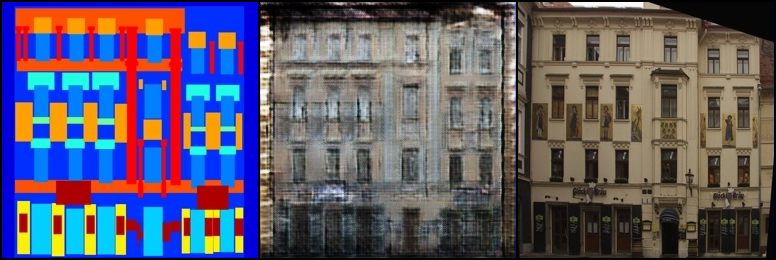
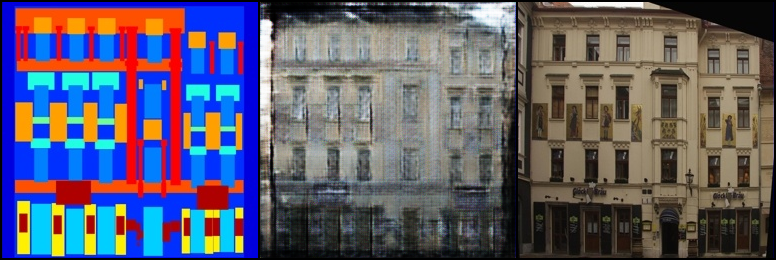
Small changes for improving models

Changed region(s): [[0.3093, 0.0, 0.6804, 1.0]]

diff --git a/models/generator.py b/models/generator.py
@@ -1,73 +1,69 @@
 import torch
 import torch.nn as nn
 
+# ---------- Down Block ----------
 class DownBlock(nn.Module):
-    def __init__(self, in_c, out_c, normalize=True):
+    def __init__(self, in_channels, out_channels, normalize=True):
         super().__init__()
-        layers = [nn.Conv2d(in_c, out_c, 4, 2, 1)]
+
+        layers = [
+            nn.Conv2d(in_channels, out_channels, 4, 2, 1, bias=False)
+        ]
+
         if normalize:
-            layers.append(nn.BatchNorm2d(out_c))
-        layers.append(nn.LeakyReLU(0.2))
-        self.block = nn.Sequential(*layers)
+            layers.append(nn.BatchNorm2d(out_channels))
+
+        layers.append(nn.LeakyReLU(0.2, inplace=True))
+
+        self.model = nn.Sequential(*layers)
 
     def forward(self, x):
-        return self.block(x)
+        return self.model(x)
 
 
+# ---------- Up Block ----------
 class UpBlock(nn.Module):
-    def __init__(self, in_c, out_c, dropout=False):
+    def __init__(self, in_channels, out_channels, dropout=False):
         super().__init__()
+
         layers = [
-            nn.ConvTranspose2d(in_c, out_c, 4, 2, 1),
-            nn.BatchNorm2d(out_c),
-            nn.ReLU()
+            nn.ConvTranspose2d(in_channels, out_channels, 4, 2, 1, bias=False),
+            nn.BatchNorm2d(out_channels),
+            nn.ReLU(inplace=True)
         ]
+
         if dropout:
             layers.append(nn.Dropout(0.5))
-        self.block = nn.Sequential(*layers)
+
+        self.model = nn.Sequential(*layers)
 
     def forward(self, x):
-        return self.block(x)
+        return self.model(x)
 
 
-class ConvBlock(nn.Module):
-    def __init__(self, in_c, out_c, down=True, use_act=True):
-        super().__init__()
-
-        if down:
-            self.conv = nn.Conv2d(in_c, out_c, 4, 2, 1, bias=False)
-        else:
-            self.conv = nn.ConvTranspose2d(in_c, out_c, 4, 2, 1, bias=False)
-
-        self.bn = nn.BatchNorm2d(out_c)
-        self.act = nn.ReLU(inplace=True) if use_act else nn.Identity()
-
-    def forward(self, x):
-        return self.act(self.bn(self.conv(x)))
-
-
+# ---------- Generator (U-Net 8 layers) ----------
 class Generator(nn.Module):
     def __init__(self):
         super().__init__()
 
-        # Encoder
-        self.d1 = DownBlock(3, 64, normalize=False)
-        self.d2 = DownBlock(64, 128)
-        self.d3 = DownBlock(128, 256)
-        self.d4 = DownBlock(256, 512)
-        self.d5 = DownBlock(512, 512)
-        self.d6 = DownBlock(512, 512)
-        self.d7 = DownBlock(512, 512)
-        self.d8 = DownBlock(512, 512, normalize=False)
+        # Downsampling
+        self.down1 = DownBlock(3, 64, normalize=False)    # 256 → 128
+        self.down2 = DownBlock(64, 128)                   # 128 → 64
+        self.down3 = DownBlock(128, 256)                  # 64 → 32
+        self.down4 = DownBlock(256, 512)                  # 32 → 16
+        self.down5 = DownBlock(512, 512)                  # 16 → 8
+        self.down6 = DownBlock(512, 512)                  # 8 → 4
+        self.down7 = DownBlock(512, 512)                  # 4 → 2
+        self.down8 = DownBlock(512, 512, normalize=False) # 2 → 1
 
-        # Decoder (🔥 دقت کن به in_channels)
-        self.u1 = UpBlock(512, 512, dropout=True)
-        self.u2 = UpBlock(1024, 512, dropout=True)
-        self.u3 = UpBlock(1024, 512, dropout=True)
-        self.u4 = UpBlock(1024, 512)
-        self.u5 = UpBlock(1024, 256)
-        self.u6 = UpBlock(512, 128)
-        self.u7 = UpBlock(256, 64)
+        # Upsampling
+        self.up1 = UpBlock(512, 512, dropout=True)
+        self.up2 = UpBlock(1024, 512, dropout=True)
+        self.up3 = UpBlock(1024, 512, dropout=True)
+        self.up4 = UpBlock(1024, 512)
+        self.up5 = UpBlock(1024, 256)
+        self.up6 = UpBlock(512, 128)
+        self.up7 = UpBlock(256, 64)
 
         self.final = nn.Sequential(
             nn.ConvTranspose2d(128, 3, 4, 2, 1),
@@ -75,26 +71,26 @@ class Generator(nn.Module):
         )
 
     def forward(self, x):
-        d1 = self.d1(x)
-        d2 = self.d2(d1)
-        d3 = self.d3(d2)
-        d4 = self.d4(d3)
-        d5 = self.d5(d4)
-        d6 = self.d6(d5)
-        d7 = self.d7(d6)
-        d8 = self.d8(d7)
 
-        u1 = self.u1(d8)
-        u2 = self.u2(torch.cat([u1, d7], dim=1))
-        u3 = self.u3(torch.cat([u2, d6], dim=1))
-        u4 = self.u4(torch.cat([u3, d5], dim=1))
-        u5 = self.u5(torch.cat([u4, d4], dim=1))
-        u6 = self.u6(torch.cat([u5, d3], dim=1))
-        u7 = self.u7(torch.cat([u6, d2], dim=1))
+        # Down path
+        d1 = self.down1(x)
+        d2 = self.down2(d1)
+        d3 = self.down3(d2)
+        d4 = self.down4(d3)
+        d5 = self.down5(d4)
+        d6 = self.down6(d5)
+        d7 = self.down7(d6)
+        d8 = self.down8(d7)
 
-        return self.final(torch.cat([u7, d1], dim=1))
+        # Up path with skip connections
+        u1 = self.up1(d8)
+        u2 = self.up2(torch.cat([u1, d7], 1))
+        u3 = self.up3(torch.cat([u2, d6], 1))
+        u4 = self.up4(torch.cat([u3, d5], 1))
+        u5 = self.up5(torch.cat([u4, d4], 1))
+        u6 = self.up6(torch.cat([u5, d3], 1))
+        u7 = self.up7(torch.cat([u6, d2], 1))
 
-"""model = Generator()
-x = torch.randn(1, 3, 256, 256)
-y = model(x)
-print(y.shape)"""
+        out = self.final(torch.cat([u7, d1], 1))
+
+        return out

diff --git a/train.py b/train.py
@@ -10,25 +10,19 @@ from models.generator import Generator
 from models.discriminator import Discriminator
 from utils import generator_loss, discriminator_loss
 
-# -------------------------------------------------
-# Settings
-# -------------------------------------------------
-EPOCHS = 30
+# ----------------- Settings -----------------
+EPOCHS = 22
 BATCH_SIZE = 2
 LR = 2e-4
 DEVICE = torch.device("cuda" if torch.cuda.is_available() else "cpu")
 
 print("Using device:", DEVICE)
 
-# -------------------------------------------------
-# Folders
-# -------------------------------------------------
+# ----------------- Folders -----------------
 os.makedirs("outputs", exist_ok=True)
 os.makedirs("checkpoints", exist_ok=True)
 
-# -------------------------------------------------
-# Dataset
-# -------------------------------------------------
+# ----------------- Dataset -----------------
 train_dataset = SplitImageDataset("data/facades/train")
 val_dataset = SplitImageDataset("data/facades/val")
 
@@ -43,18 +37,14 @@ val_loader = DataLoader(val_dataset, batch_size=1, shuffle=True)
 fixed_input, _ = next(iter(val_loader))
 fixed_input = fixed_input.to(DEVICE)
 
-# -------------------------------------------------
-# Models
-# -------------------------------------------------
+# ----------------- Models -----------------
 gen = Generator().to(DEVICE)
 disc = Discriminator().to(DEVICE)
 
 opt_gen = optim.Adam(gen.parameters(), lr=LR, betas=(0.5, 0.999))
-opt_disc = optim.Adam(disc.parameters(), lr=LR, betas=(0.5, 0.999))
+opt_disc = optim.Adam(disc.parameters(), lr=5e-5, betas=(0.5, 0.999))
 
-# -------------------------------------------------
-# Auto Resume
-# -------------------------------------------------
+# ----------------- Auto Resume -----------------
 start_epoch = 0
 checkpoint_files = glob.glob("checkpoints/*.pth")
 
@@ -77,9 +67,7 @@ if len(checkpoint_files) > 0:
 else:
     print("No checkpoint found. Training from scratch.")
 
-# -------------------------------------------------
-# Training
-# -------------------------------------------------
+# ----------------- Training -----------------
 for epoch in range(start_epoch, EPOCHS):
 
     gen.train()
@@ -102,9 +90,10 @@ for epoch in range(start_epoch, EPOCHS):
             disc, real, fake.detach(), corrupted
         )
 
-        opt_disc.zero_grad()
-        d_loss.backward()
-        opt_disc.step()
+        if idx % 2 == 0:
+            opt_disc.zero_grad()
+            d_loss.backward()
+            opt_disc.step()
 
         # ----------------------
         # Train Generator
@@ -129,8 +118,9 @@ for epoch in range(start_epoch, EPOCHS):
                 f"D Loss: {d_loss.item():.4f} "
                 f"G Loss: {g_loss.item():.4f}"
             )
-
-    # ---- Average Loss ----
+    # -------------------------------------------------
+    # Average Loss
+    # -------------------------------------------------
     avg_g = epoch_g_loss / len(train_loader)
     avg_d = epoch_d_loss / len(train_loader)
 

diff --git a/utils.py b/utils.py
@@ -4,13 +4,13 @@ import torch.nn as nn
 bce = nn.BCEWithLogitsLoss()
 l1 = nn.L1Loss()
 
-LAMBDA_L1 = 100
+LAMBDA_L1 = 30
 
 def discriminator_loss(disc, real_img, fake_img, condition):
     real_pred = disc(condition, real_img)
     fake_pred = disc(condition, fake_img.detach())
 
-    real_loss = bce(real_pred, torch.ones_like(real_pred))
+    real_loss = bce(real_pred, torch.ones_like(real_pred) * 0.9)
     fake_loss = bce(fake_pred, torch.zeros_like(fake_pred))
 
     return (real_loss + fake_loss) / 2
@@ -22,4 +22,4 @@ def generator_loss(disc, fake_img, real_img, condition):
     adv_loss = bce(fake_pred, torch.ones_like(fake_pred))
     l1_loss = l1(fake_img, real_img)
 
-    return adv_loss + LAMBDA_L1 * l1_loss
+    return adv_loss * 2 + LAMBDA_L1 * l1_loss

diff --git a/data/dataset.py b/data/dataset.py
@@ -11,7 +11,6 @@ class SplitImageDataset(Dataset):
         self.images = sorted(os.listdir(root_dir))
 
         self.transform = transforms.Compose([
-            transforms.Resize((256, 512)),
             transforms.ToTensor(),
             transforms.Normalize(
                 (0.5, 0.5, 0.5),

diff --git a/models/discriminator.py b/models/discriminator.py
@@ -13,7 +13,7 @@ class DiscBlock(nn.Module):
     def forward(self, x):
         return self.block(x)
 
-
+# ---------- Discriminator ----------
 class Discriminator(nn.Module):
     def __init__(self, in_channels=3):
         super().__init__()
